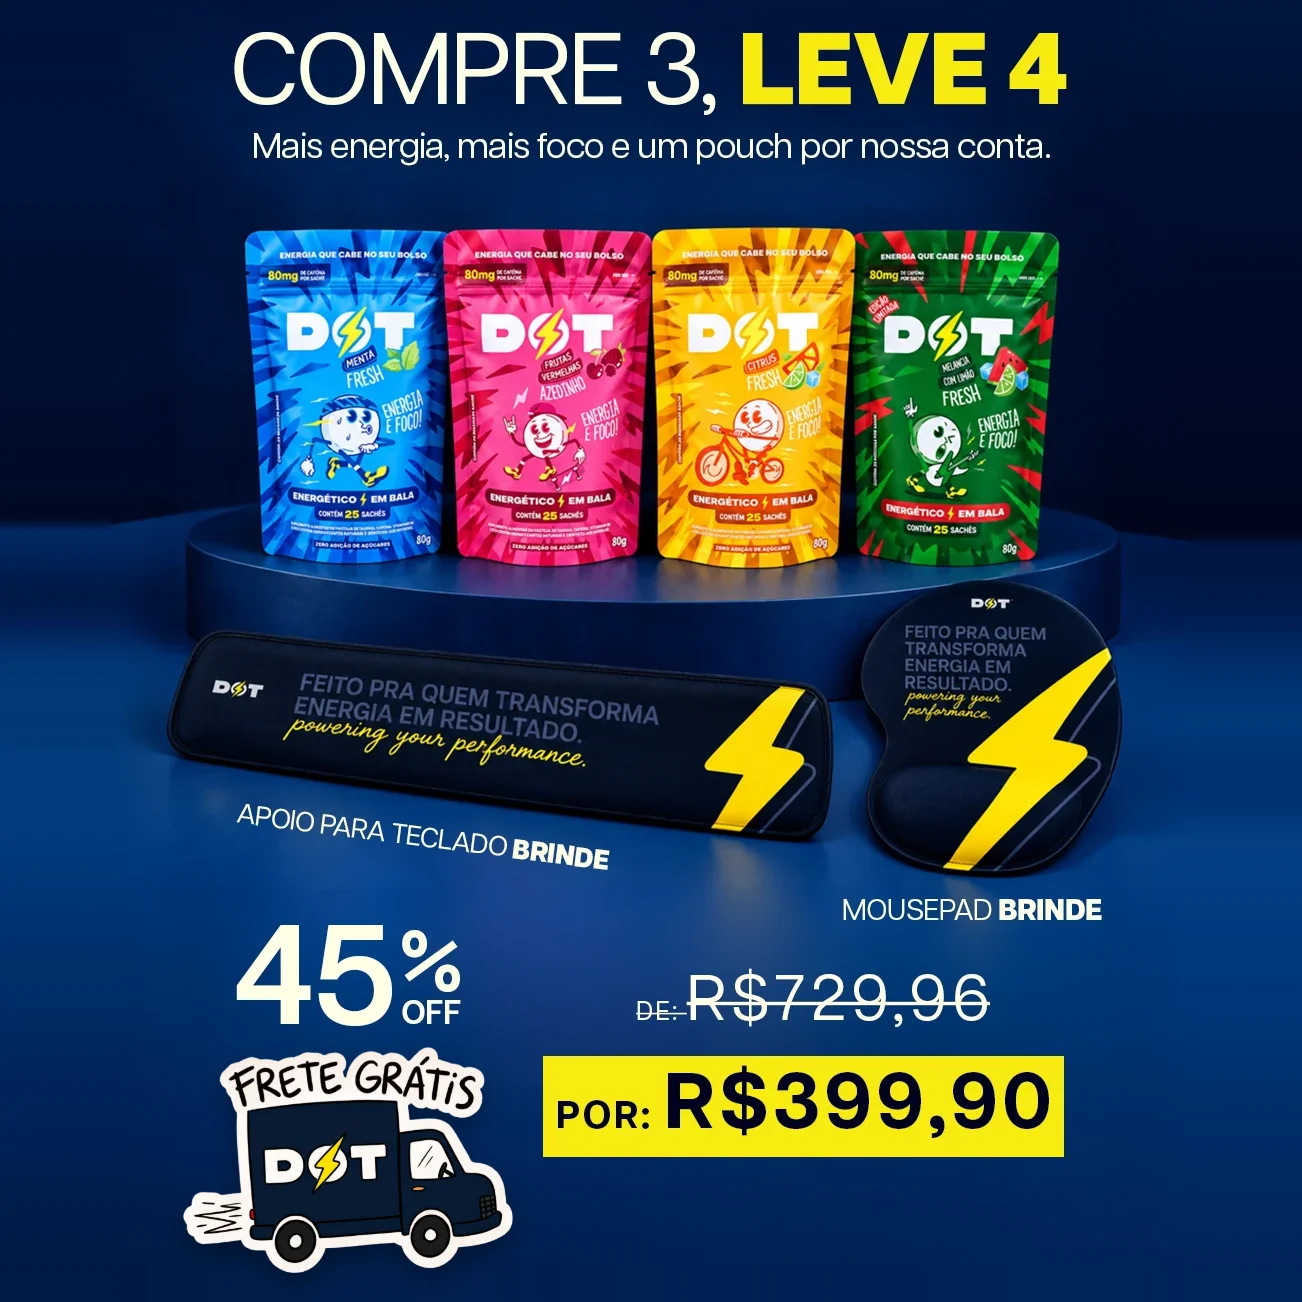
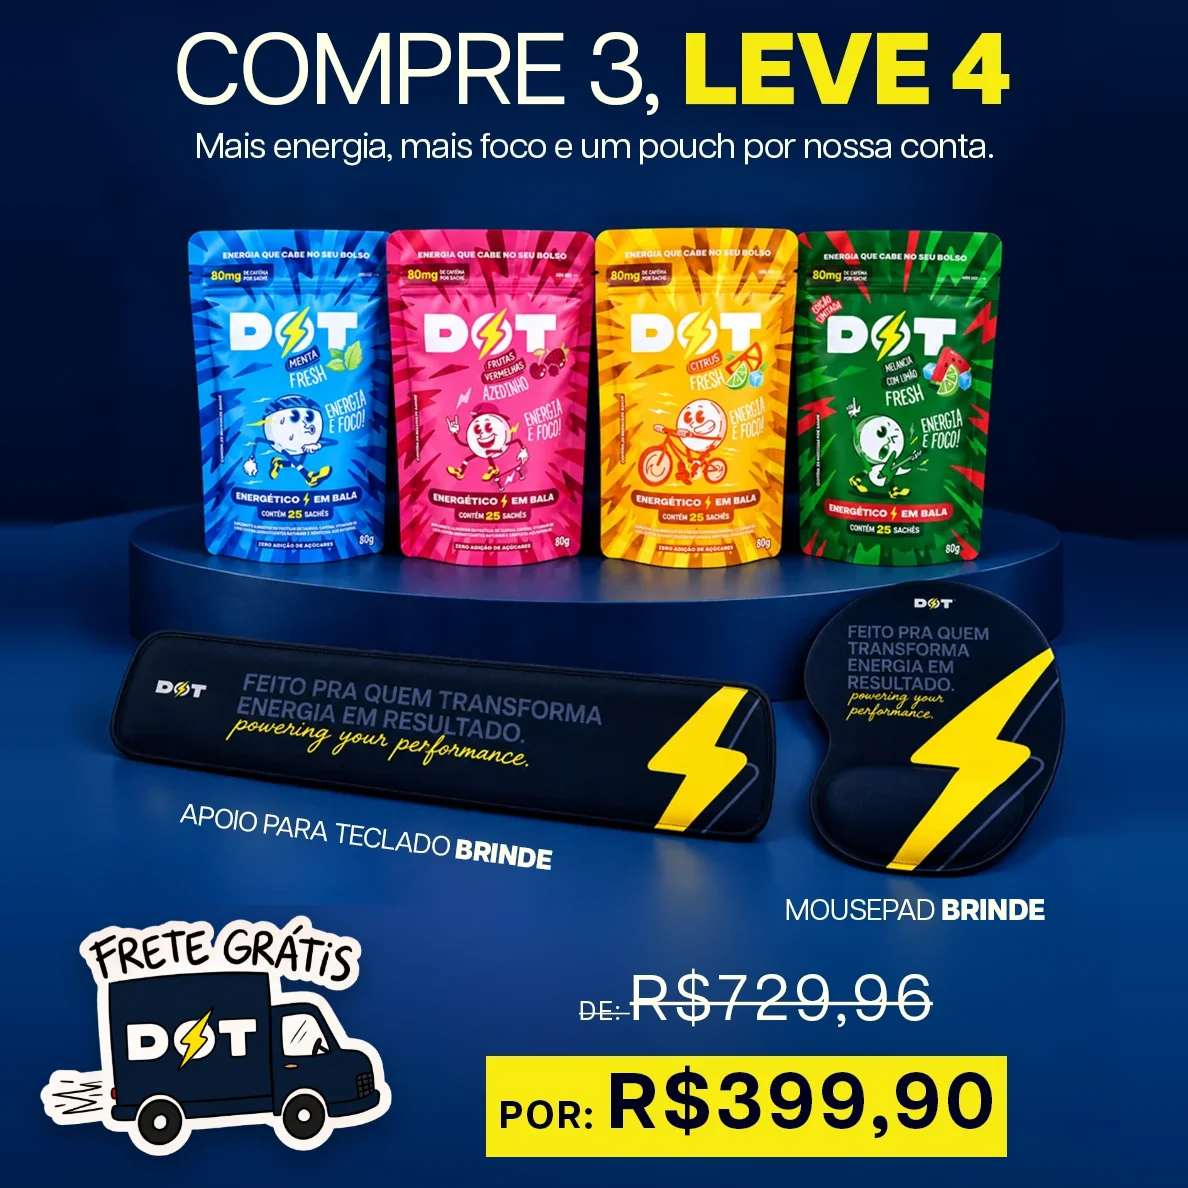
feat: capa sem o 45% OFF, com o caminhao do frete gratis no lugar e mais a esquerda
O 45% OFF saiu da arte da capa e o adesivo do caminhao subiu para o lugar
dele, maior (352px), com a base alinhada a da caixa do preco e a 40px da
borda esquerda. A capa volta ao corte justo (1188x1188). O "45% OFF hoje"
continua no card de preco da pagina.

diff --git a/index.html b/index.html
@@ -81,10 +81,11 @@
           <div class="swiper-wrapper">
 
             <!-- capa da oferta 8, montada a partir da arte original (1080x1384, em assets-src): corte do
-                 titulo para baixo, sem a faixa "oferta limitada"; o FRETE GRATIS escrito deu lugar ao
-                 adesivo do caminhao (assets-src/brinde-frete-gratis.png), grande, embaixo do 45% OFF.
-                 O fundo foi estendido nas laterais e embaixo para fechar o quadrado da galeria -->
-            <div class="swiper-slide"><div class="gallery__slide gallery__slide--full media-frame"><img src="assets/galeria-capa-compre3-leve4.webp" alt="Compre 3, leve 4: os 4 pouches DOT (menta, frutas vermelhas, citrus e melancia com limão), apoio de teclado e mousepad de brinde, 45% OFF de R$ 729,96 por R$ 399,90 e frete grátis"></div></div>
+                 titulo ao preco, sem a faixa "oferta limitada". O 45% OFF e o FRETE GRATIS escrito sairam,
+                 e no lugar deles entrou o adesivo do caminhao (assets-src/brinde-frete-gratis.png), a 40px
+                 da borda esquerda e com a base alinhada a da caixa do preco. O fundo foi estendido 54px de
+                 cada lado para fechar o quadrado da galeria -->
+            <div class="swiper-slide"><div class="gallery__slide gallery__slide--full media-frame"><img src="assets/galeria-capa-compre3-leve4.webp" alt="Compre 3, leve 4: os 4 pouches DOT (menta, frutas vermelhas, citrus e melancia com limão), apoio de teclado e mousepad de brinde e frete grátis, de R$ 729,96 por R$ 399,90"></div></div>
 
             <div class="swiper-slide">
               <div class="gallery__slide media-frame">
